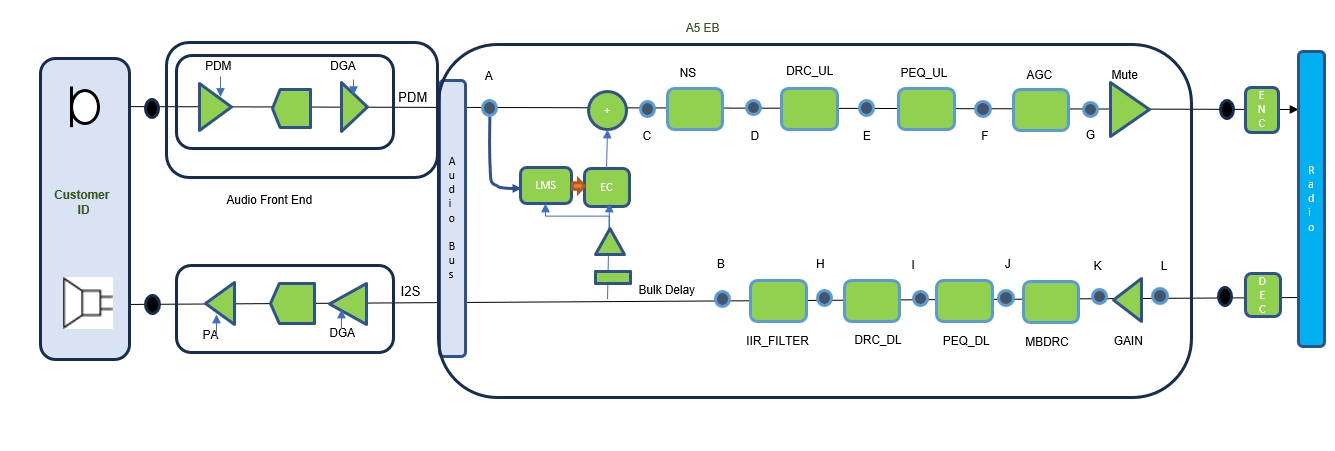
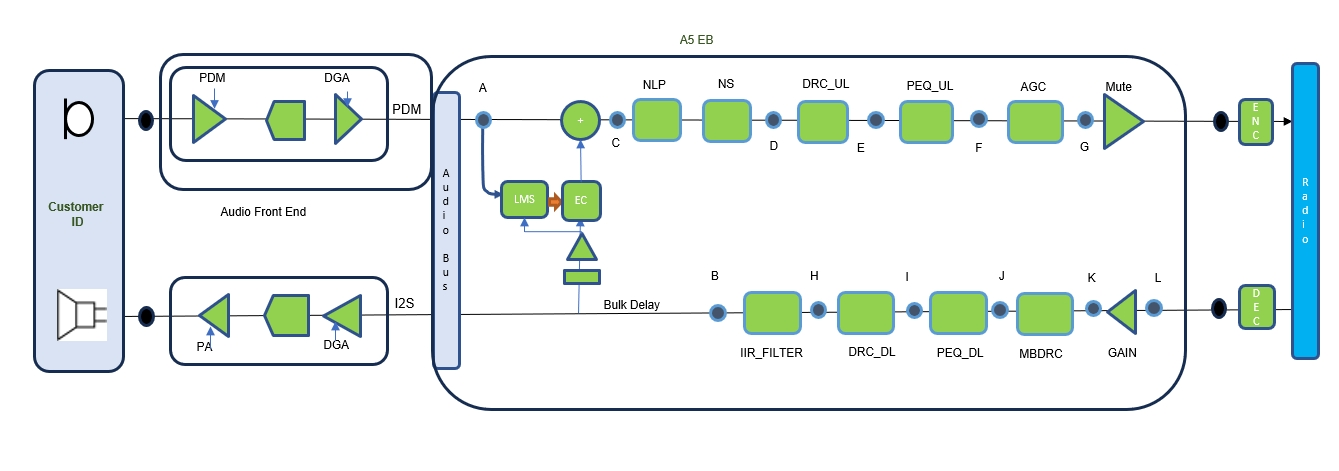
Update audio pipe picutre and DRC_DL noise gate default parameter, the code from austreamer lib: The austreamer lib commit: e817cd60b99914a021fc5109f9a09d01622f9985

diff --git a/index.html b/index.html
@@ -296,7 +296,7 @@
             <br><br><label for="title">DRC Knee Threshold (-30~-10): </label>
             <input type="number" id="DrcDlKneeThreshold" name="DRC_DL_Knee_Threshold" min="-30" max="-10" value="-10"/>
             <br><br><label for="title">DRC Noise Gate (-80~-25): </label>
-            <input type="number" id="DrcDlNoiseGate" name="DRC_DL_Noise_Gate" min="-80" max="-25" value="-30"/>
+            <input type="number" id="DrcDlNoiseGate" name="DRC_DL_Noise_Gate" min="-80" max="-25" value="-60"/>
             <br><br><label for="title">DRC Slope (0.01~1.0): </label>
             <input type="number" id="DrcDlSlope" name="DRC_DL_Slope" step="0.01" min="0.01" max="1" value="0.1"/>
           </div>
